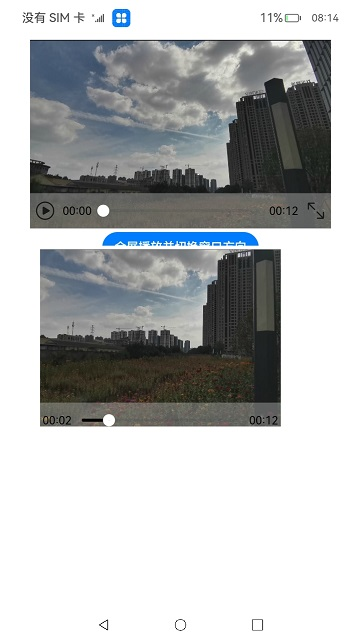
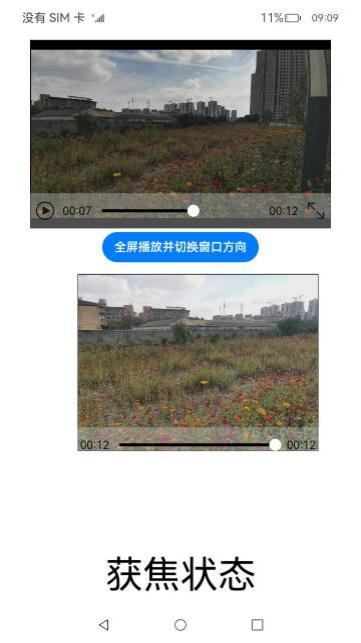
fix windowmaneger bug

diff --git a/code/BasicFeature/WindowManagement/WindowManage/WindowComponent/src/main/ets/components/feature/WindowManger.ts b/code/BasicFeature/WindowManagement/WindowManage/WindowComponent/src/main/ets/components/feature/WindowManger.ts
@@ -79,14 +79,6 @@ class WindowManger {
       }
     });
     try {
-      windowStage.getMainWindow().then((data) => {
-        console.info('Succeeded in obtaining the main window. Data: ' + JSON.stringify(data));
-        data.on('windowEvent', (data) => {
-          console.info('Main Window event happened. Event:' + JSON.stringify(data));
-        });
-      }).catch((err) => {
-        console.error('Failed to obtain the main window. Cause: ' + JSON.stringify(err));
-      });
       subWindow.setWindowFocusable(true, (err) => {
         if (err.code) {
           console.error('Failed to set the window to be focusable. Cause:' + JSON.stringify(err));
@@ -96,7 +88,7 @@ class WindowManger {
       });
       subWindow.on('windowEvent', (data) => {
         console.info('Sub Window event happened. Event:' + JSON.stringify(data));
-        let message = '';
+        let message = null;
         switch (JSON.stringify(data)) {
           case '1':
             message = $r('app.string.foreground');
@@ -106,6 +98,9 @@ class WindowManger {
             break;
           case '3':
             message = $r('app.string.lose_focus');
+            break;
+          case '4':
+            message = $r('app.string.background');
             break;
           default:
             message = $r('app.string.unknown');

diff --git a/code/BasicFeature/WindowManagement/WindowManage/README_zh.md b/code/BasicFeature/WindowManagement/WindowManage/README_zh.md
@@ -20,6 +20,8 @@
 
 3.点击全屏播放并切换窗口方向按钮可以全屏播放视频并且改变窗口方向。
 
+4.点击视频屏幕拉起小窗口播放视频, 点击小窗口, 界面显示小窗口状态为“获焦状态”; 再次点击视频关闭小窗口, 界面显示小窗口状态为“失焦状态”
+
 ### 工程目录
 ```
 entry/src/main/ets/
@@ -65,11 +67,15 @@ entry/src/main/ets/
 
 1.本示例仅支持标准系统上运行,支持设备:RK3568；
 
-2.本示例已适配API version 9版本SDK，版本号：3.2.11.9；
+2.本示例不支持release版本,仅支持master版本,当前software version为OpenHarmony 4.0.8.2
 
-3.本示例需要使用DevEco Studio 3.1 Beta2 (Build Version: 3.1.0.400, built on April 7, 2023)及以上版本才可编译运行；
+3.本示例SDK仅支持api10及以上版本,当前支持的SDK版本链接如下：
 
-4.本示例所配置的权限ohos.permission.SYSTEM_FLOAT_WINDOW为system_basic级别(相关权限级别可通过[权限定义列表](https://gitee.com/openharmony/docs/blob/master/zh-cn/application-dev/security/permission-list.md)查看)，需要手动配置对应级别的权限签名(具体操作可查看[自动化签名方案](https://docs.openharmony.cn/pages/v3.2/zh-cn/application-dev/security/hapsigntool-overview.md/)。
+[SDK全量包下载链接](http://download.ci.openharmony.cn/version/Daily_Version/ohos-sdk-public/20230610_140110/version-Daily_Version-ohos-sdk-public-20230610_140110-ohos-sdk-public.tar.gz)
+
+4.本示例需要使用DevEco Studio 3.1 Beta2 (3.1.0.500, built on April 28, 2023)及以上版本才可编译运行；
+
+5.本示例所配置的权限ohos.permission.SYSTEM_FLOAT_WINDOW为system_basic级别(相关权限级别可通过[权限定义列表](https://gitee.com/openharmony/docs/blob/master/zh-cn/application-dev/security/permission-list.md)查看)，需要手动配置对应级别的权限签名(具体操作可查看[自动化签名方案](https://docs.openharmony.cn/pages/v3.2/zh-cn/application-dev/security/hapsigntool-overview.md/)。
 
 ### 下载
 

diff --git a/code/BasicFeature/WindowManagement/WindowManage/ohosTest.md b/code/BasicFeature/WindowManagement/WindowManage/ohosTest.md
@@ -2,11 +2,13 @@
 
 ## 用例表
 
-|测试功能|预置条件|输入|预期输出|测试结果|
-|---|---|---|---|---|
-|拉起应用|设备正常运行| |成功拉起WindowManager|Pass|
-|跳转视频页|应用正常拉起|点击“窗口视频”文字|拉起视频播放页|Pass|
-|切换窗口方向|位于视频页|点击切换窗口方向按钮|点击按钮后，视频组件left坐标增加，窗口切换为横屏|Pass|
-|小窗视频是否正常播放|位于视频页|点击视频|点击视频出现小窗，再次点击视频小窗消失|Pass|
-|拖拽小窗|位于视频页|触发小窗，向右上方拖拽小窗|获取拖拽前后的小窗中心坐标，前后坐标的变化趋势与拖动的方向一致|Pass|
+|测试功能|预置条件|输入|预期输出|是否自动|测试结果|
+|---|---|---|---|---|---|
+|拉起应用|设备正常运行| |成功拉起WindowManager|是|Pass|
+|跳转视频页|应用正常拉起|点击“窗口视频”文字|拉起视频播放页|是|Pass|
+|切换窗口方向|位于视频页|点击切换窗口方向按钮|点击按钮后，视频组件left坐标增加，窗口切换为横屏|是|Pass|
+|小窗视频是否正常播放|位于视频页|点击视频|点击视频出现小窗，再次点击视频小窗消失|是|Pass|
+|拖拽小窗|位于视频页|触发小窗，向右上方拖拽小窗|获取拖拽前后的小窗中心坐标，前后坐标的变化趋势与拖动的方向一致|是|Pass|
+|窗口是否正常获焦|位于视频页|点击视频|点击视频出现小窗，页面显示窗口状态为“获焦状态”|是|Pass|
+|窗口是否正常失焦|位于视频页|点击视频|再次点击视频小窗消失，页面显示窗口状态为“失焦状态”|是|Pass|
 
